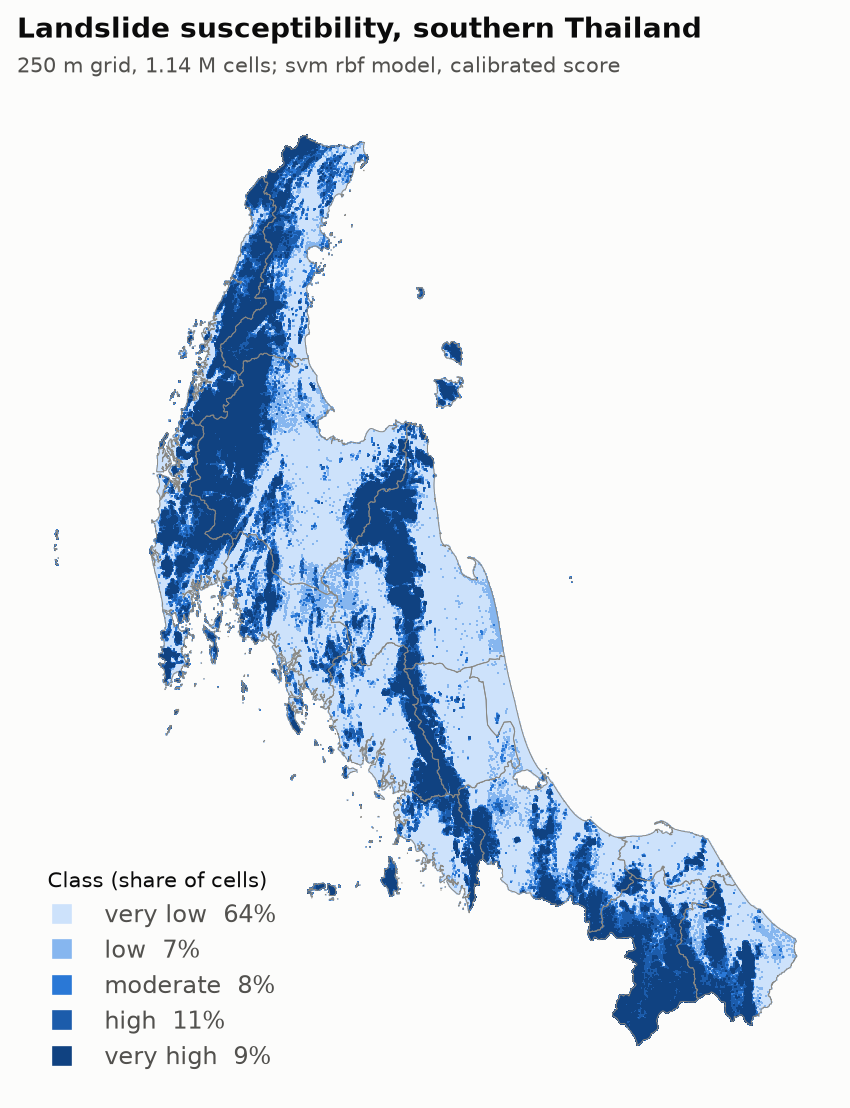
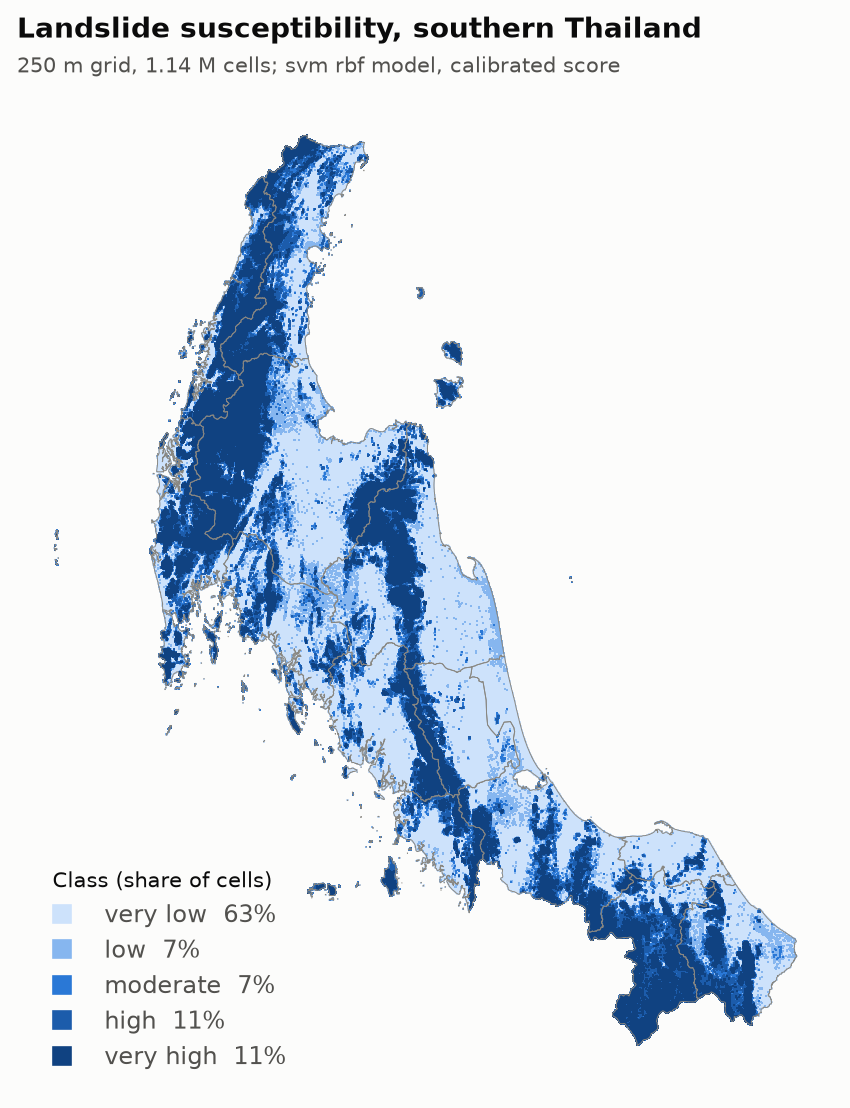
Re-score the susceptibility map with corrected class names
The grid stores lithology and land cover as numeric codes while the model was
trained on class names; the map is now scored after mapping codes to names.
9.3% of cells changed class; the very-high share rose from 9.3% to 11.4% and
people on high/very-high ground from 59,663 to 71,402. README, METHODS, the
data dictionary and the figures are updated to the new outputs.

diff --git a/scripts/predict_susceptibility_grid.py b/scripts/predict_susceptibility_grid.py
@@ -127,7 +127,8 @@ def main():
     summary = {
         "model": best_model,
         "selection": metadata.get("selection"),
-        "grid_source": str(grid_dir.relative_to(PROJECT_DIR)),
+        "grid_source": (str(grid_dir.relative_to(PROJECT_DIR)) if grid_dir.is_relative_to(PROJECT_DIR)
+                        else f"data/processed/factor_grid_points/{grid_dir.name}"),
         "point_count": int(len(df)),
         "score_interpretation": metadata.get("score_interpretation"),
         "threshold_raw_probability": metadata["threshold_raw_probability"],
@@ -139,7 +140,7 @@ def main():
             "(see model_metadata.json's score_interpretation), not calibrated to real-world prevalence.",
             "Grid is 250 m point samples, not the model's native 30 m training resolution -- see "
             "scripts/gee_sample_factor_grid_points.py's docstring for why this is not a meaningful "
-            "accuracy loss given the model's own ~28 km spatial-CV validation granularity.",
+            "accuracy loss given the model's 0.5 deg (~55 km) spatial-CV blocks.",
             "dist_to_fault/dist_to_road/dist_to_river are null for points beyond their 20 km search "
             "radius (much more common in this regional grid than in the training data, which sat at "
             "event locations); the trained median imputer fills these the same way it does in training.",

diff --git a/docs/METHODS.md b/docs/METHODS.md
@@ -16,7 +16,7 @@
 
 **Hold-out performance of the selected model.** ROC-AUC **0.940** (95% CI 0.932–0.948), PR-AUC 0.904, balanced accuracy 0.829, sensitivity 0.986, specificity 0.673, Cohen's κ 0.625 (`models/susceptibility/model_metadata.json`, `results/figures/3_model_comparison.png`). The cross-validation estimate (0.934) and the hold-out (0.940) now agree, and all eleven models fall within 0.87–0.94 on the hold-out (top four within 0.003 in CV), which is the pattern expected once leakage is removed. Selection used the nested CV, not the hold-out fold.
 
-**Map.** The factor stack was point-sampled on a 250 m grid inside the boundary (148 of 150 tiles contain points; the other two clip the boundary with no grid point), scored and calibrated: 1,137,629 cells, 64.4% very low, 7.2% low, 7.8% moderate, 11.4% high, 9.3% very high (calibrated-score bins 0.2/0.4/0.6/0.8; 25.5% of cells exceed the decision threshold). Output: `results/susceptibility_map/` (CSV and GeoTIFF).
+**Map.** The factor stack was point-sampled on a 250 m grid inside the boundary (148 of 150 tiles contain points; the other two clip the boundary with no grid point), scored and calibrated: 1,137,629 cells, 62.8% very low, 7.2% low, 7.4% moderate, 11.2% high, 11.4% very high (calibrated-score bins 0.2/0.4/0.6/0.8; 27.2% of cells exceed the decision threshold). Lithology and land cover are converted from the grid's numeric codes to the class names used in training before scoring. Output: `results/susceptibility_map/` (CSV and GeoTIFF).
 
 ## 3. Live rainfall forecast (GFS) — and the rainfall model that was dropped
 
@@ -50,7 +50,7 @@ Neither set is calibrated on landslide records. Local percentiles say **how unus
 
 It is a product, not a sum, on purpose: rain alone creates no risk on terrain that cannot slide (flat ground never exceeds "moderate"), no unusual rain means "low" everywhere, and "very high" needs the steepest tier **and** rain above that tambon's P95. (A first version added the two scores; the what-if scenario below showed that made every tambon "high" in a heavy storm, so it was replaced.) The rule is a **transparent triage rule, not a calibrated probability and not a validated landslide forecast**: the terrain half comes from a model with a held-out ROC-AUC of 0.94, the rain half from local rainfall percentiles (not calibrated on landslides). **People at elevated risk** = people living in high/very-high susceptibility cells of tambons whose live impact class is high or very high (same definition for buildings and facilities). Two sliver tambons contain no grid cell and are `not_assessed`.
 
-**Results for the shipped run (a quiet-weather snapshot):** all 1,053 assessed tambons are *low* (no tambon's forecast rain is unusual for its climate), 2 not assessed; nobody is at elevated risk. The terrain tiers themselves (776 low, 180 moderate, 97 high) are unaffected by the weather. Independent of the weather, 59,663 of 9,385,884 people (0.64%), 4,402 of 426,519 buildings (1.0%) and 29 of 3,895 facilities live in high/very-high susceptibility cells; largest populations: Phuket 16,398 (1.6% of the province), Nakhon Si Thammarat 13,494 (1.0%), Yala 11,941 (2.8%), Ranong 4,306 (1.2%). Phuket, Nakhon Si Thammarat, Yala and Ranong have almost no landslide training points, so these are **extrapolation** (Known issue 3). GFS cells are ~28 km wide, so neighbouring tambons often share one rainfall value.
+**Results for the shipped run (a quiet-weather snapshot):** all 1,053 assessed tambons are *low* (no tambon's forecast rain is unusual for its climate), 2 not assessed; nobody is at elevated risk. The terrain tiers themselves (753 low, 194 moderate, 106 high) are unaffected by the weather. Independent of the weather, 71,402 of 9,385,884 people (0.76%), 5,983 of 426,519 buildings (1.4%) and 34 of 3,895 facilities live in high/very-high susceptibility cells; largest populations: Phuket 21,320 (2.1% of the province), Nakhon Si Thammarat 13,625 (1.0%), Yala 12,998 (3.1%), Ranong 5,239 (1.5%). Phuket, Nakhon Si Thammarat, Yala and Ranong have almost no landslide training points, so these are **extrapolation** (Known issue 3). GFS cells are ~28 km wide, so neighbouring tambons often share one rainfall value.
 
 Outputs: `results/impact_overlay/impact_overlay_by_tambon.csv`, `..._by_province.csv`, `facility_exposure.csv`, `impact_overlay.json` (served by the API).
 
@@ -61,13 +61,13 @@ Outputs: `results/impact_overlay/impact_overlay_by_tambon.csv`, `..._by_province
 | Scenario (24 h rain) | Tambons very high / high / moderate | People at elevated risk | Buildings | Facilities |
 |---|---|---|---|---|
 | live forecast (max 18 mm) | 0 / 0 / 0 | 0 | 0 | 0 |
-| 30 mm, whole south | 0 / 138 / 793 | 24,070 | 1,512 | 16 |
-| 50 mm, whole south | 75 / 199 / 777 | 41,128 | 3,841 | 21 |
-| 100 mm (or 150, 250), whole south | 97 / 180 / 776 | 43,209 | 3,842 | 21 |
-| 150 mm in Yala only | 13 / 13 / 32 | 11,507 | 5 | 4 |
+| 30 mm, whole south | 2 / 152 / 784 | 30,879 | 2,158 | 21 |
+| 50 mm, whole south | 81 / 215 / 756 | 51,537 | 5,360 | 26 |
+| 100 mm (or 150, 250), whole south | 106 / 194 / 753 | 54,022 | 5,362 | 26 |
+| 150 mm in Yala only | 14 / 16 / 28 | 12,525 | 6 | 8 |
 | 150 mm in Phuket only | 2 / 7 / 8 | 6,353 | 1,036 | 6 |
 
-Properties to keep in mind: a scenario applies the same rain to every tambon in scope (real storms are patchy); because classes are percentiles, they **saturate** once rain passes a tambon's P95 (about 40–70 mm in the south), so 100 mm and 250 mm give the same answer; and the exposure counts only people, buildings and facilities on high/very-high susceptibility ground (43,209 of the 59,663 such people sit in tambons that can reach "high" or above).
+Properties to keep in mind: a scenario applies the same rain to every tambon in scope (real storms are patchy); because classes are percentiles, they **saturate** once rain passes a tambon's P95 (about 40–70 mm in the south), so 100 mm and 250 mm give the same answer; and the exposure counts only people, buildings and facilities on high/very-high susceptibility ground (54,022 of the 71,402 such people sit in tambons that can reach "high" or above).
 
 ## 5. Changes from the initial design
 
@@ -77,7 +77,7 @@ Properties to keep in mind: a scenario applies the same rain to every tambon in 
 | `dist_to_stream` | in the model; ≈ 2×10⁷ for 94% of events, acting as a date proxy | excluded |
 | Selected susceptibility model | gradient boosting: CV 0.961, hold-out 0.919 | `svm_rbf`: CV 0.934, hold-out 0.940 (CV and hold-out agree) |
 | Rainfall component | ML trigger, hold-out AUC 0.90 (most likely a sampling artefact), driven by IMERG + a +3 h GFS nudge | none: GFS 24 h forecast rain against each tambon's CHIRPS wet-day percentiles (the ML model was shown to have no skill, 0.34) |
-| People in high/very-high cells | 159,933 (1.7%) | 59,663 (0.64%) |
+| People in high/very-high cells | 159,933 (1.7%) | 71,402 (0.76%) |
 | Live impact class | terrain tier + ML trigger class (a sum) | terrain factor × local 24 h rain class (a product) |
 
 The initial design's problems, found by auditing the original inventory workbook, are documented below where they still apply.

diff --git a/README.md b/README.md
@@ -36,12 +36,12 @@ The landslide inventory was provided by ADPC; cite it accordingly when reusing t
 | | |
 |---|---|
 | Susceptibility model (selected by nested spatial CV) | `svm_rbf`; nested-CV ROC-AUC 0.934 ± 0.028; spatial hold-out ROC-AUC 0.940 (95% CI 0.932–0.948), PR-AUC 0.904 |
-| Map | 1,137,629 cells at 250 m: 64% very low, 7% low, 8% moderate, 11% high, 9% very high |
-| Exposure in high / very-high cells (any weather) | 59,663 of 9,385,884 people (0.64%); 4,402 of 426,519 buildings (1.0%); 29 of 3,895 facilities |
-| Largest exposed populations | Phuket 16,398 (1.6%), Nakhon Si Thammarat 13,494 (1.0%), Yala 11,941 (2.8%), Ranong 4,306 — **these four have almost no landslide training points, so they are extrapolation** |
+| Map | 1,137,629 cells at 250 m: 63% very low, 7% low, 7% moderate, 11% high, 11% very high |
+| Exposure in high / very-high cells (any weather) | 71,402 of 9,385,884 people (0.76%); 5,983 of 426,519 buildings (1.4%); 34 of 3,895 facilities |
+| Largest exposed populations | Phuket 21,320 (2.1%), Nakhon Si Thammarat 13,625 (1.0%), Yala 12,998 (3.1%), Ranong 5,239 — **these four have almost no landslide training points, so they are extrapolation** |
 | Live forecast shipped (GFS run 2026-10-15 18:00 UTC, quiet weather) | next 24 h: max 18.1 mm; all 1,055 tambons below their own P75 (the fixed 10 mm rule would have flagged 130) |
 | Live impact for that run | all 1,053 assessed tambons low; nobody at elevated risk (no unusual rain forecast) |
-| What-if scenario (24 h rain, whole south) | 30 mm: 138 tambons high, 24,070 people at elevated risk; 50 mm: 75 very high + 199 high, 41,128 people; 100 mm and above: 43,209 people (classes saturate above each tambon's P95) |
+| What-if scenario (24 h rain, whole south) | 30 mm: 2 very high + 152 high tambons, 30,879 people at elevated risk; 50 mm: 81 very high + 215 high, 51,537 people; 100 mm and above: 54,022 people (classes saturate above each tambon's P95) |
 
 Figures are in `results/figures/`. Terrain scores are relative rankings under 1:1 pseudo-absence sampling, not calibrated real-world probabilities, and the negatives are easy lowland points (Known issue 4). The rain thresholds are local climate percentiles, not calibrated on landslides.
 

diff --git a/data/DATA_DICTIONARY.md b/data/DATA_DICTIONARY.md
@@ -88,7 +88,7 @@ GeoJSON layers clipped to the study area. (The roads / rivers / waterways / faul
 - `rainfall_trigger/` — rainfall-trigger pipeline (`random_forest`), calibrator and metadata (13 features, metrics, limitations). **Its hold-out ROC-AUC is 0.34, below chance: the model has no skill and is not used by the live pipeline** (paired same-date negatives, image-date landslide dates; see `../docs/METHODS.md`).
 
 ## results/
-- `susceptibility_map/susceptibility_grid_points.csv` — `px_lon`, `px_lat`, `raw_probability`, `calibrated_probability` (0.00–0.93), `susceptibility_class` (`very_low` < 0.2 ≤ `low` < 0.4 ≤ `moderate` < 0.6 ≤ `high` < 0.8 ≤ `very_high`), `above_threshold` (1 if raw score ≥ 0.302; 25.5% of cells). `susceptibility_grid.tif` is the same calibrated score rasterised to 1,968 × 2,396 cells (float32, EPSG:4326, no-data NaN); `susceptibility_map_metadata.json` has class counts and limitations.
+- `susceptibility_map/susceptibility_grid_points.csv` — `px_lon`, `px_lat`, `raw_probability`, `calibrated_probability` (0.00–1.00), `susceptibility_class` (`very_low` < 0.2 ≤ `low` < 0.4 ≤ `moderate` < 0.6 ≤ `high` < 0.8 ≤ `very_high`), `above_threshold` (1 if raw score ≥ 0.302; 27.2% of cells). `susceptibility_grid.tif` is the same calibrated score rasterised to 1,968 × 2,396 cells (float32, EPSG:4326, no-data NaN); `susceptibility_map_metadata.json` has class counts and limitations.
 - `live_forecast/latest.json` — GFS run metadata (`gfs_run_utc`, `generated_utc`, `window_start_utc`, `window_24h_end_utc`, `window_72h_end_utc`, `forecast_hours_used`), the assumed `rain_classes_mm_24h`, a `summary`, `method`, `limitations` and, per tambon: `gfs_rain_24h_mm`, `gfs_rain_48h_mm`, `gfs_rain_72h_mm` (forecast totals counted from now), `gfs_peak_hourly_mm_24h`, `rain_class_24h` (absolute: `light` < 10 mm, `moderate` 10–35, `heavy` 35–90, `very_heavy` ≥ 90), `local_p75_mm`, `local_p90_mm`, `local_p95_mm` (the tambon's wet-day percentiles) and `rain_local_class_24h` (`below_p75`, `p75_p90`, `p90_p95`, `above_p95`; this one drives the live impact).
 - `impact_overlay/impact_overlay_by_tambon.csv` (1,055 rows):
   | Column group | Meaning |
